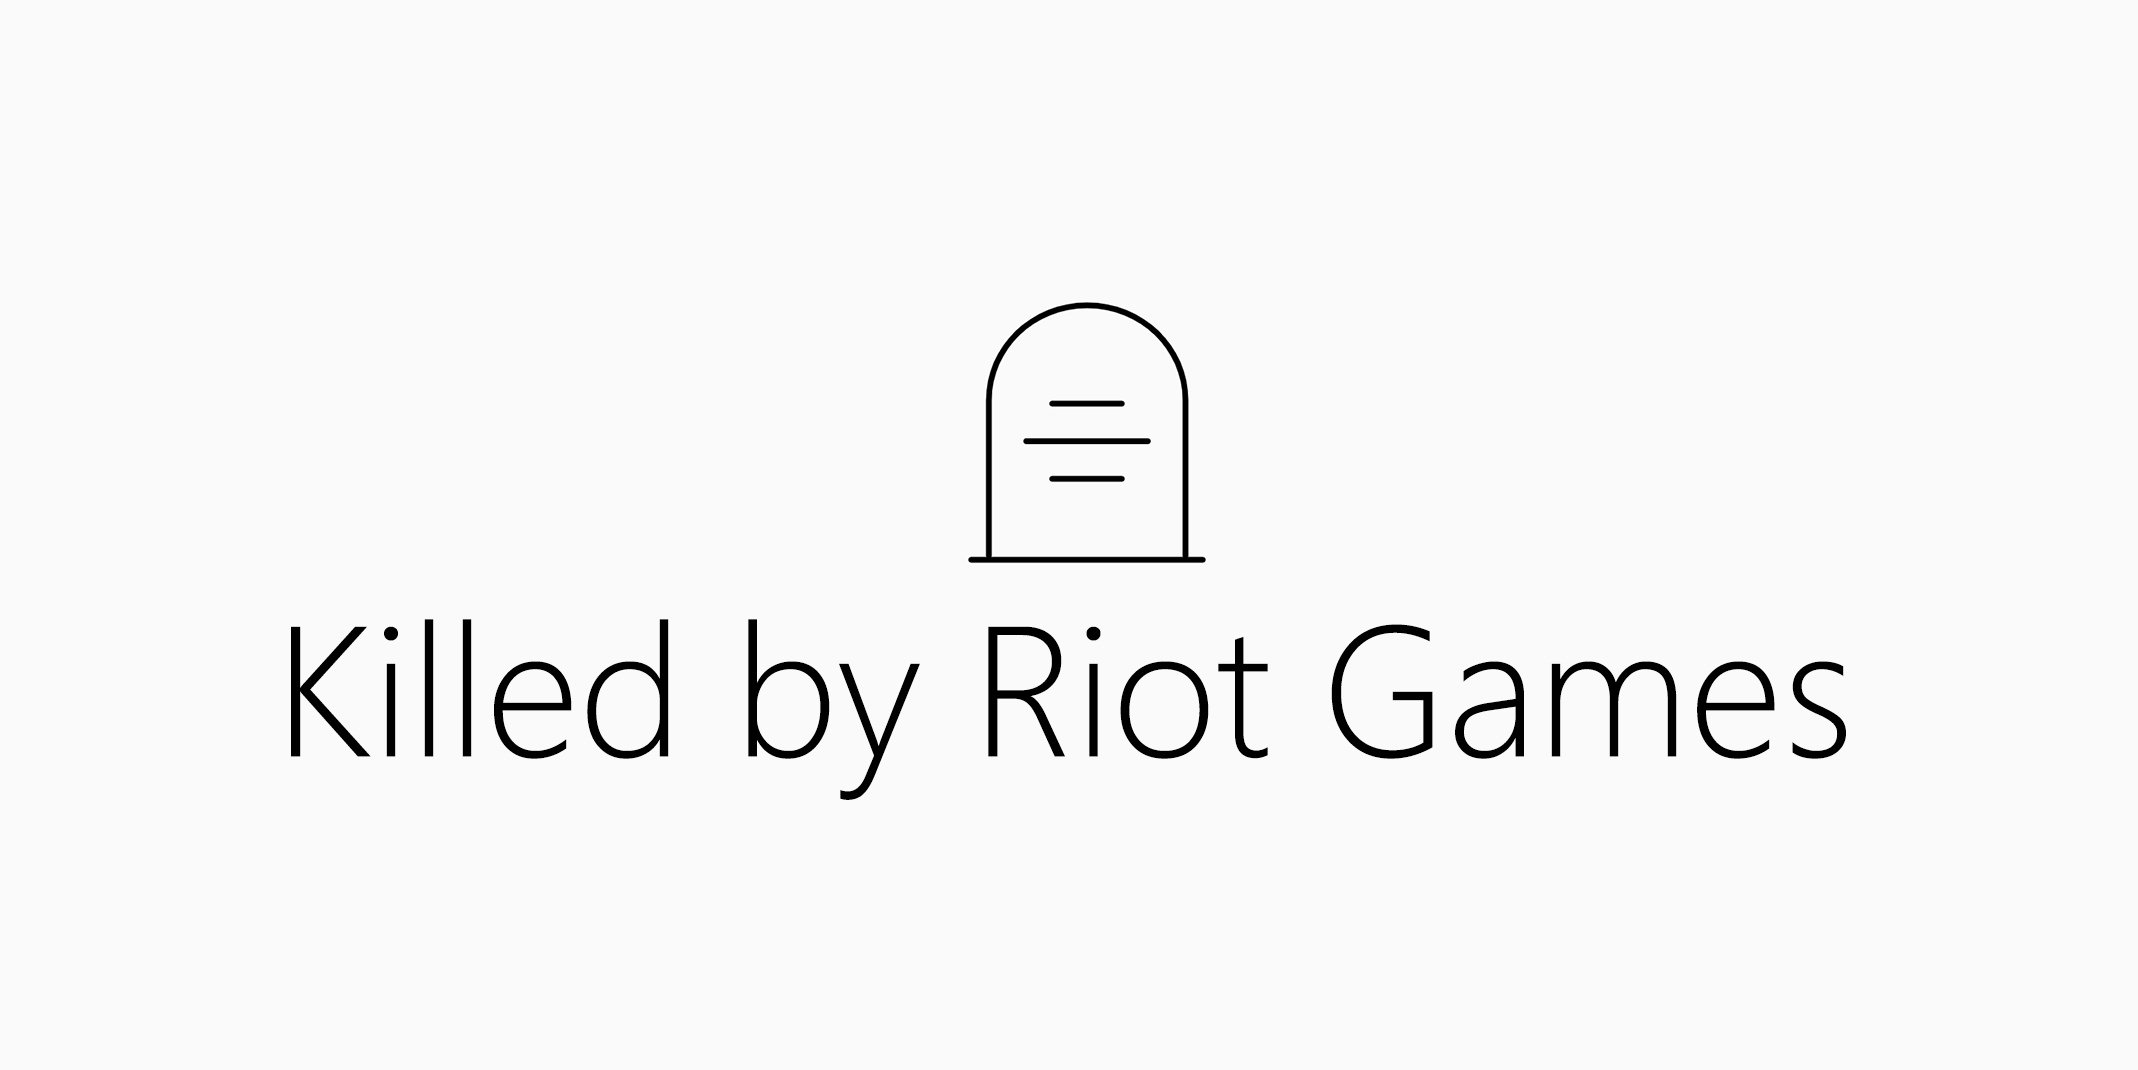
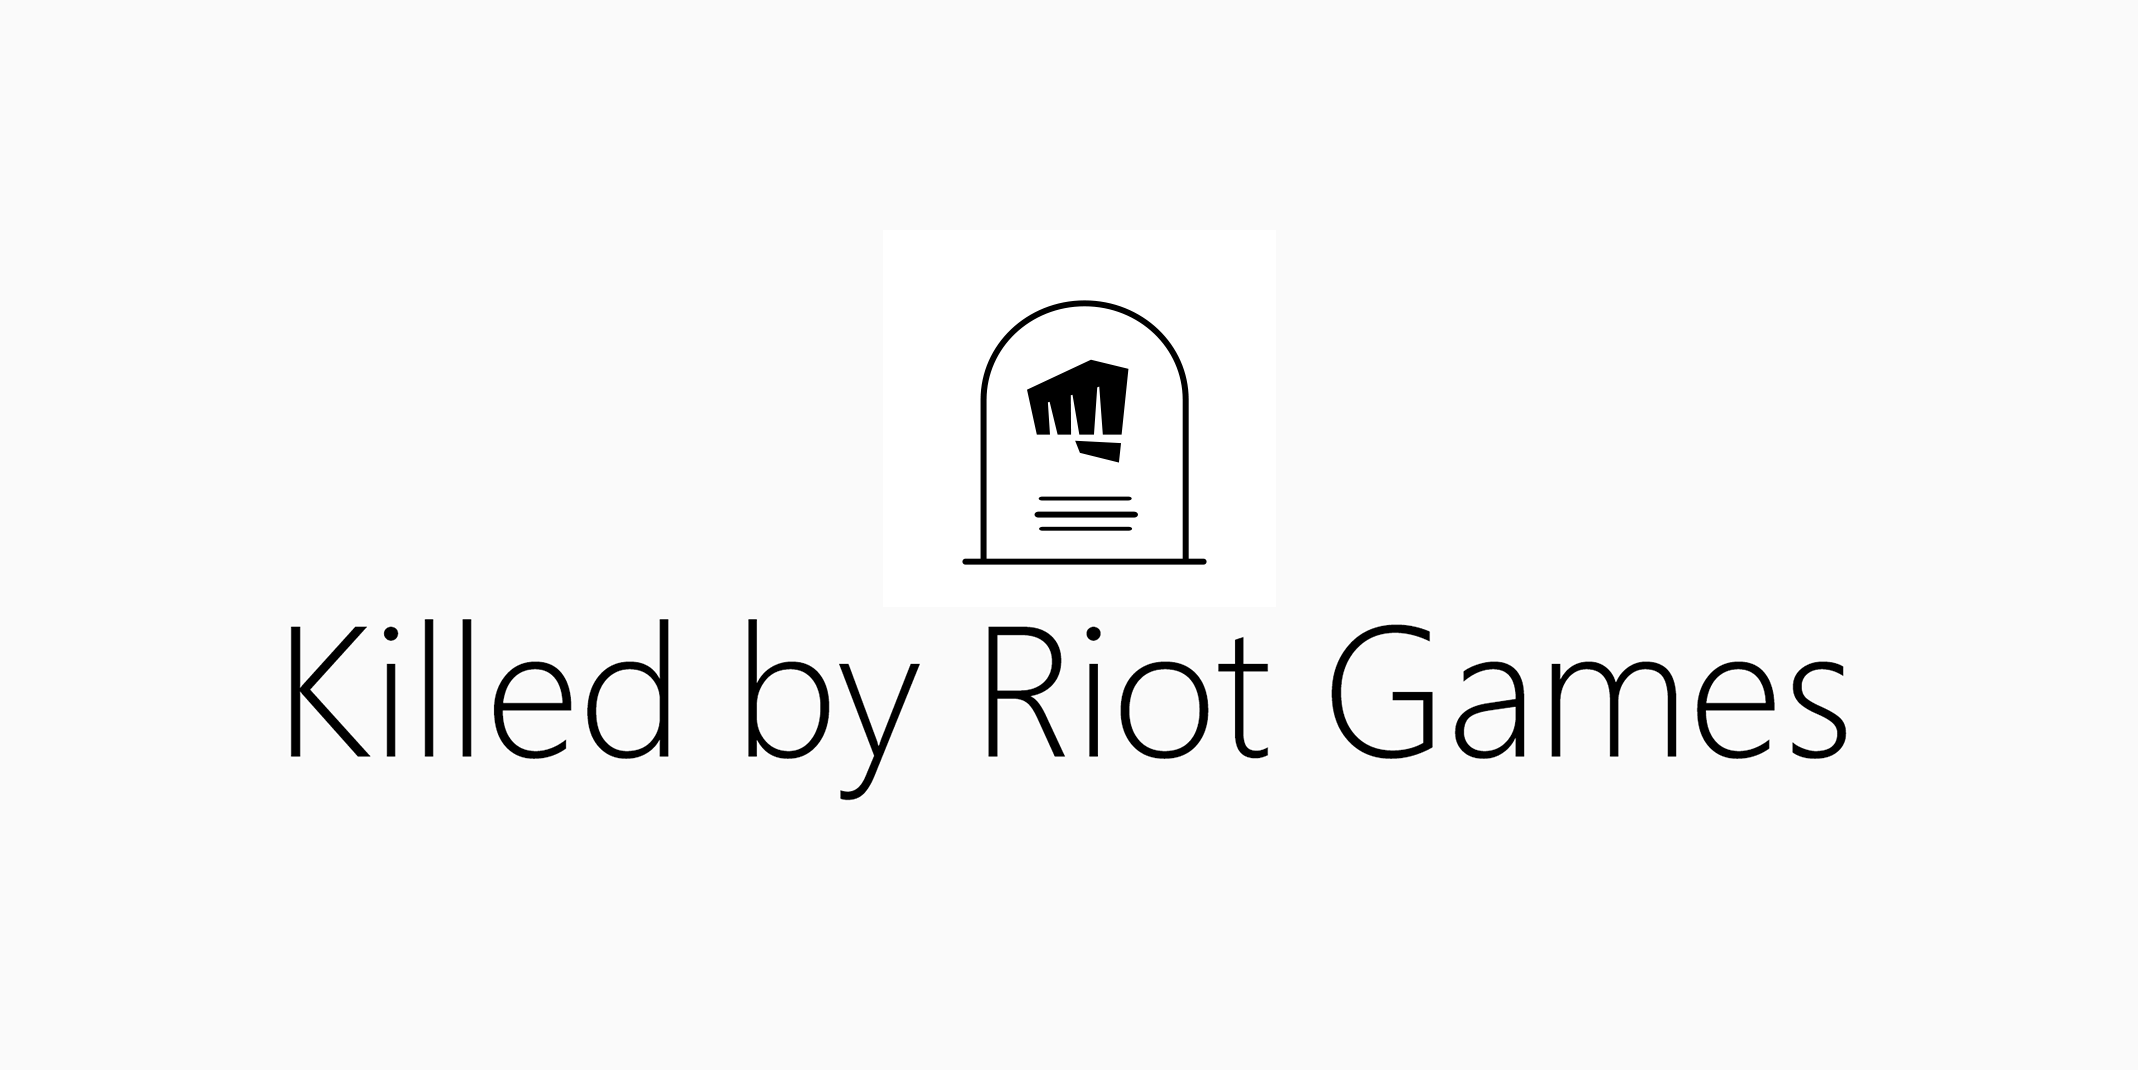
Added new image and URL agnostic

Changed region(s): [[0.4322, 0.2776, 0.5557, 0.5243]]

diff --git a/pages/index.tsx b/pages/index.tsx
@@ -23,21 +23,21 @@ const HomePage: React.FC<{ items: ProductWithSlug[] }> = ({ items }) => {
                 <link rel="shortcut icon" href="favicon.png" />
                 <title>Riot Games Graveyard - Killed by Riot Games</title>
                 <meta name="theme-color" content="#FAFAFA" />
-                <link rel="canonical" href="https://killedbyriotgames.com" />
-                <meta name="image" content="https://killedbyriotgames.com/social/card.png"></meta>
+                <link rel="canonical" href={`${process.env.NEXT_PUBLIC_URL}`} />
+                <meta name="image" content={`${process.env.NEXT_PUBLIC_URL}/social/card.png`}></meta>
                 <meta itemProp="name" content="Killed by Riot Games" />
                 <meta itemProp="description" content="Killed by Riot Games is the Riot Games Graveyard. A full list of dead products Killed by Riot Games in the Riot Games Cemetery." />
-                <meta itemProp="image" content="https://killedbyriotgames.com/social/card.png" />
+                <meta itemProp="image" content={`${process.env.NEXT_PUBLIC_URL}/social/card.png`} />
                 <meta name="twitter:card" content="summary_large_image" />
                 <meta name="twitter:title" content="Killed by Riot Games" />
                 <meta name="twitter:description" content="Killed by Riot Games is the Riot Games Graveyard. A full list of dead products Killed by Riot Games in the Riot Games Cemetery." />
-                <meta name="twitter:image:src" content="https://killedbyriotgames.com/social/card-twitter.png" />
-                <meta name="twitter:image" content="https://killedbyriotgames.com/social/card-twitter.png" />
+                <meta name="twitter:image:src" content={`${process.env.NEXT_PUBLIC_URL}/social/card-twitter.png`} />
+                <meta name="twitter:image" content={`${process.env.NEXT_PUBLIC_URL}/social/card-twitter.png`} />
                 <meta name="og:title" property="og:title" content="Killed by Riot Games" />
-                <meta name="og:url" property="og:url" content="https://killedbyriotgames.com" />
+                <meta name="og:url" property="og:url" content={`${process.env.NEXT_PUBLIC_URL}`} />
                 <meta name="og:description" property="og:description" content="Killed by Riot Games is the open source list of dead Riot Games products, services, and devices. It serves as a tribute and memorial of beloved services and products Killed by Riot Games." />
-                <meta name="image" property="og:image" content="https://killedbyriotgames.com/social/card.png" />
-                <meta name="og:image" property="og:image" content="https://killedbyriotgames.com/social/card.png" />
+                <meta name="image" property="og:image" content={`${process.env.NEXT_PUBLIC_URL}/social/card.png`} />
+                <meta name="og:image" property="og:image" content={`${process.env.URL}/social/card.png`} />
                 <meta name="og:site_name" property="og:site_name" content="Killed by Riot Games" />
                 <meta name="og:type" property="og:type" content="website" />
                 <meta name="author" content="Neekhaulas" />

diff --git a/components/Footer/index.tsx b/components/Footer/index.tsx
@@ -79,7 +79,7 @@ const Footer = () => (
                     <div css={{
                         marginRight: '10px',
                     }}>
-                        <img height="60px" width="60px" src='https://static.killedbygoogle.com/com/tombstone-alt.svg' alt="Tombstone" />
+                        <img height="60px" width="60px" src='tombstone-alt.svg' alt="Tombstone" />
                     </div>
                     <Title>Killed by Riot Games</Title>
                 </FooterTitle>
@@ -126,7 +126,7 @@ const Footer = () => (
                     <SocialLink
                         url="https://github.com/Neekhaulas/killedbyriotgames"
                         altText="GitHub"
-                        imgSrc='https://static.killedbygoogle.com/com/github.svg'
+                        imgSrc='github.svg'
                     />
                 </SocialWrapper>
             </FlexWrap>

diff --git a/components/Header.tsx b/components/Header.tsx
@@ -33,7 +33,7 @@ const Header = () => (
             }}>
                 <BrandingContainer>
                         <Logo>
-                            <img width="60px" src="https://static.killedbygoogle.com/com/tombstone.svg" height="60px" alt="Tombstone" />
+                            <img width="60px" src="tombstone.svg" height="60px" alt="Tombstone" />
                         </Logo>
                         <Title>Killed by Riot Games</Title>
                 </BrandingContainer>

diff --git a/components/List/index.tsx b/components/List/index.tsx
@@ -112,7 +112,7 @@ export const FallbackAd = () => <Link passHref href="https://twitter.com/killedb
     <AdPlaceholder target="_blank" rel="noopener noreferrer">
         <div>
             <div>
-                <img src="https://static.killedbygoogle.com/com/twitter-blue.svg" alt="Twitter" />
+                <img src="twitter-blue.svg" alt="Twitter" />
             </div>
             <div>Follow @killedbygoogle on Twitter.</div>
         </div>

diff --git a/components/List/Item.tsx b/components/List/Item.tsx
@@ -38,9 +38,9 @@ export default function Item(props: ProductWithSlug) {
 
   const getIcon = () => {
     return isPast() ? (
-      <Icon src='https://static.killedbygoogle.com/com/tombstone.svg' alt="Tombstone" />
+      <Icon src='tombstone.svg' alt="Tombstone" />
     ) : (
-      <Icon src='https://static.killedbygoogle.com/com/guillotine.svg' alt="Guillotine" />
+      <Icon src='guillotine.svg' alt="Guillotine" />
     );
   };
 

diff --git a/components/Loader.tsx b/components/Loader.tsx
@@ -14,7 +14,7 @@ const Loader = () => <LoaderContainer>
             width: '60px',
         })}
         width="60px"
-        src="https://static.killedbygoogle.com/com/knife.svg"
+        src="knife.svg"
         alt="Knife"
     />
 </LoaderContainer>;
